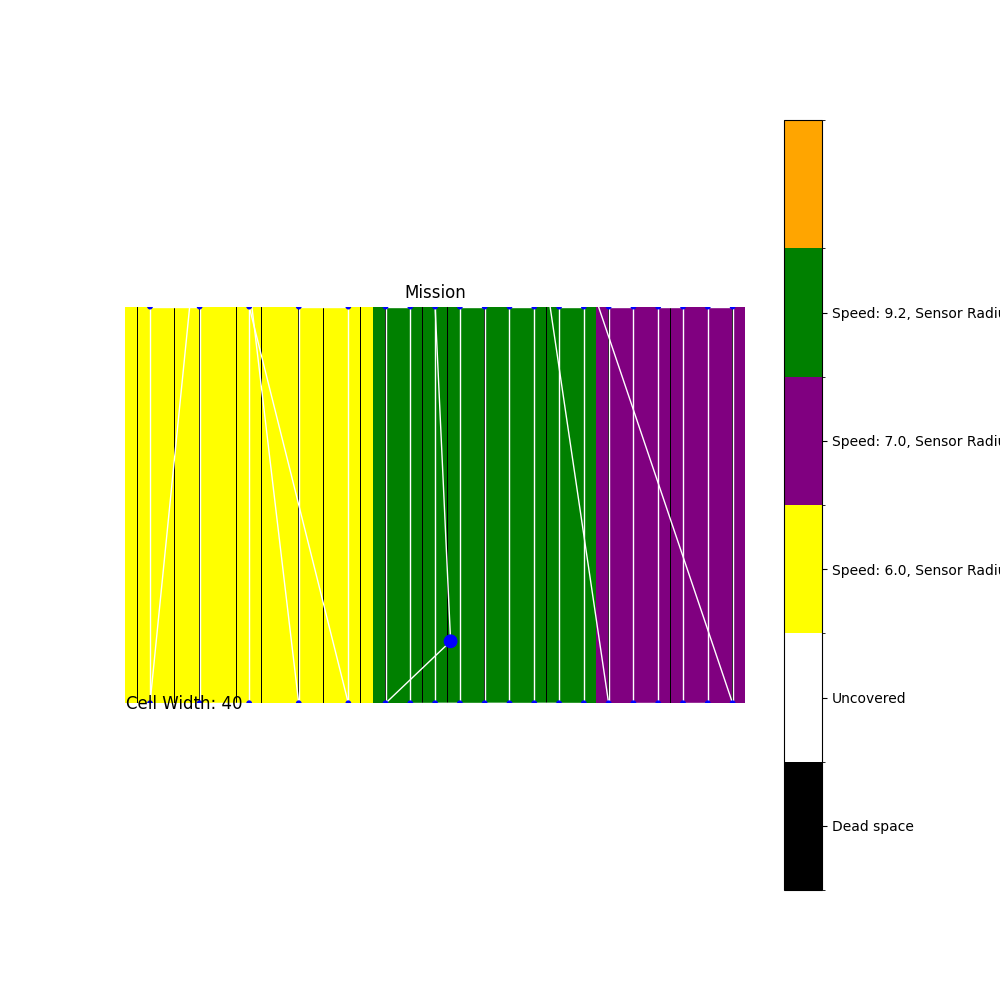
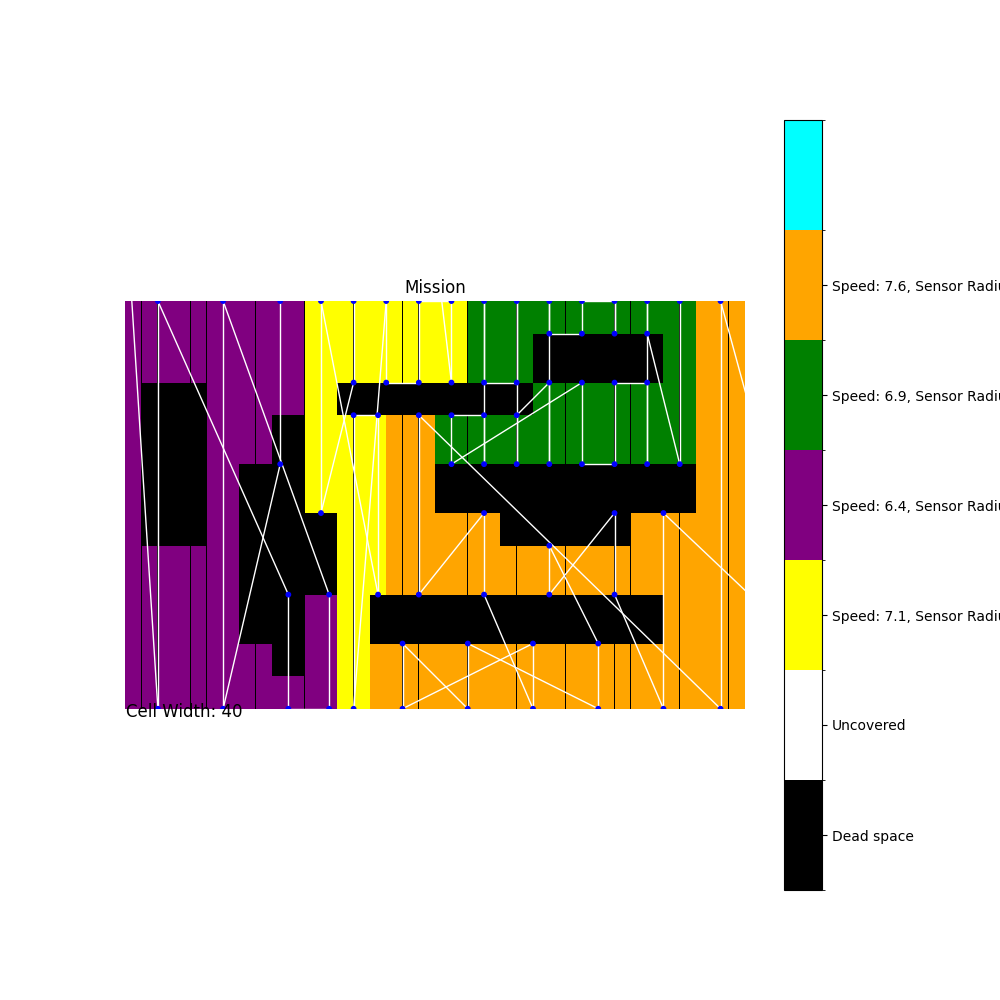
Changes made to show different layouts clearer.

diff --git a/py/HARMONY/MOOSHandler.py b/py/HARMONY/MOOSHandler.py
@@ -224,6 +224,13 @@ class MOOSHandler:
         # Create a 2d array based off a preconfigured mission grid layout
         grid_height = int(self.survey_area.height / self.gcd)
         grid_width = int(self.survey_area.width / self.gcd)
+
+        # In case height or width is less than gcd
+        if grid_height < 1:
+            grid_height = 1
+        if grid_width < 1:
+            grid_width = 1
+
         self.grid_data = ml.resize_mission_layout(ml.ACTIVE_MISSION, grid_width, grid_height)
 
         # Offset vehicle positions for algorithm

diff --git a/py/HARMONY/AlgorithmDevelopment/missionLayouts.py b/py/HARMONY/AlgorithmDevelopment/missionLayouts.py
@@ -48,7 +48,7 @@ mission_area_3 = np.array([
 ])
 
 
-ACTIVE_MISSION = mission_area_2
+ACTIVE_MISSION = mission_area_1
 
 def upscale_mission_layout(mission_area_np_array, scale_x, scale_y):
     return np.kron(mission_area_np_array, np.ones((scale_y, scale_x)))
